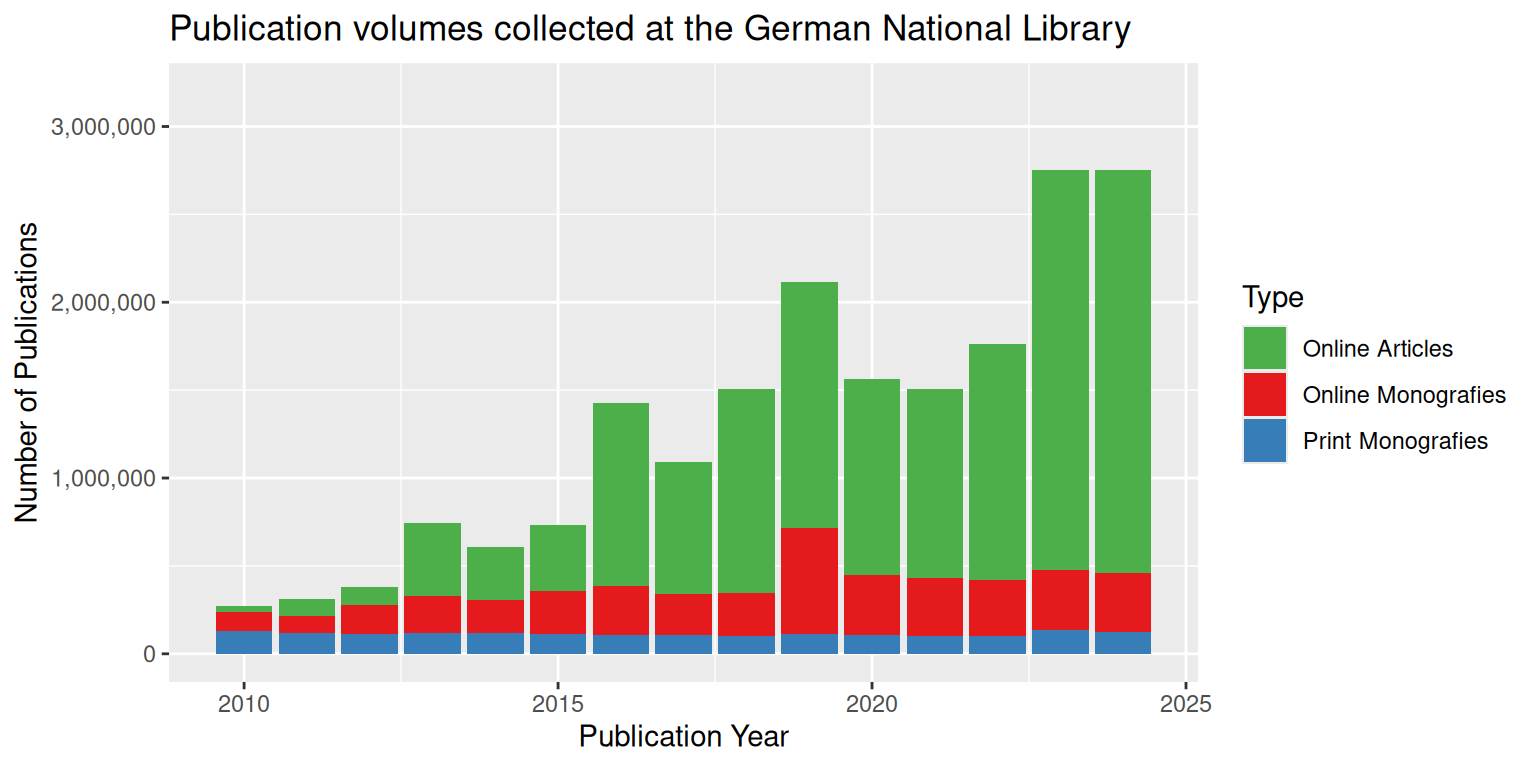
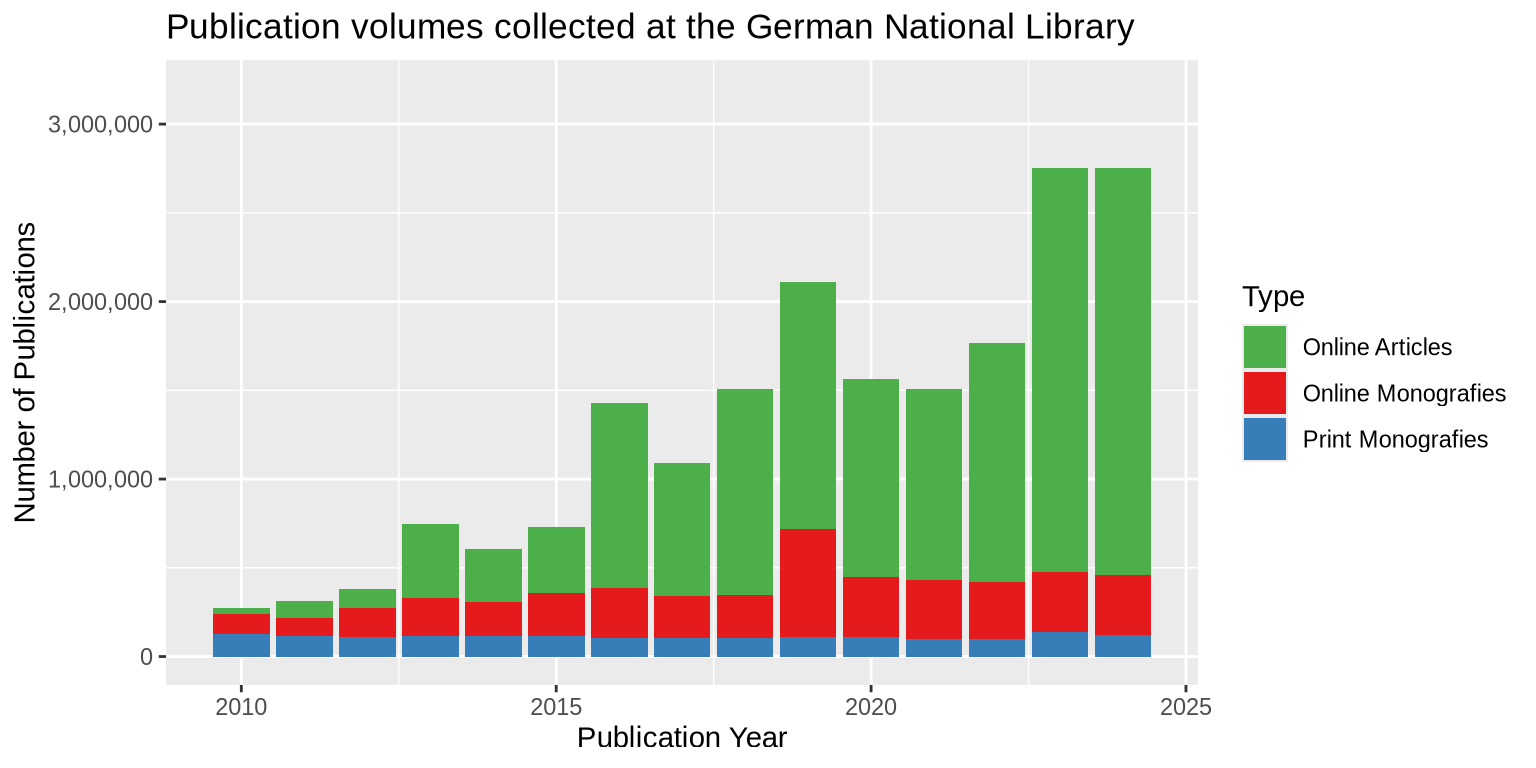
fix typo in slides

diff --git a/slides/slides.html b/slides/slides.html
@@ -6,8 +6,8 @@
 <script src="slides_files/libs/quarto-html/tippy.umd.min.js"></script>
 <link href="slides_files/libs/quarto-html/tippy.css" rel="stylesheet">
 <link href="slides_files/libs/quarto-html/light-border.css" rel="stylesheet">
-<link href="slides_files/libs/quarto-html/quarto-syntax-highlighting-37eea08aefeeee20ff55810ff984fec1.css" rel="stylesheet" id="quarto-text-highlighting-styles"><meta charset="utf-8">
-  <meta name="generator" content="quarto-1.7.32">
+<link href="slides_files/libs/quarto-html/quarto-syntax-highlighting-587c61ba64f3a5504c4d52d930310e48.css" rel="stylesheet" id="quarto-text-highlighting-styles"><meta charset="utf-8">
+  <meta name="generator" content="quarto-1.8.26">
 
   <meta name="author" content="Maximilian Kähler">
   <meta name="dcterms.date" content="2025-12-03">
@@ -96,7 +96,7 @@
     code span.vs { color: #20794d; } /* VerbatimString */
     code span.wa { color: #5e5e5e; font-style: italic; } /* Warning */
   </style>
-  <link rel="stylesheet" href="slides_files/libs/revealjs/dist/theme/quarto-b331e54636063e9138b24fec8fd3a628.css">
+  <link rel="stylesheet" href="slides_files/libs/revealjs/dist/theme/quarto-847fd1119461911a4f9ae32216069dbc.css">
   <script>window.backupDefine = window.define; window.define = undefined;</script><script src="https://cdn.jsdelivr.net/npm/katex@latest/dist/katex.min.js"></script>
   <script>document.addEventListener("DOMContentLoaded", function () {
  var mathElements = document.getElementsByClassName("math");
@@ -254,7 +254,7 @@ Maximilian Kähler
 <div style="background: white; color: black; padding: 24px; border-radius: 12px; box-shadow: 0 2px 8px rgba(0,0,0,0.08); min-width: 391px; max-width: 460px; height: 410px;">
 <p><strong>About this Workshop:</strong></p>
 <ul>
-<li>Explore evaluation techniques for evaluating automated subject indexing methods, focusing on practical applications using the <strong>CASIMiR</strong><sup>1</sup> package.</li>
+<li>Explore evaluation techniques for evaluating automated subject indexing methods, focussing on practical applications using the <strong>CASIMiR</strong><sup>1</sup> package.</li>
 <li>Created as part of DNB-AI-Project, funded by the German Federal Commissioner for Culture and Media (BKM) <sup>2</sup></li>
 <li>All workshop materials are available online<sup>3</sup></li>
 </ul>
@@ -1012,10 +1012,10 @@ Embracing Euphonium
 }
 </style>
 
-<table class="gt_table caption-top" data-quarto-postprocess="true" data-quarto-disable-processing="false" data-quarto-bootstrap="false">
+<table class="gt_table caption-top" data-quarto-bootstrap="false">
 <thead>
 <tr class="gt_heading header">
-<th colspan="8" class="gt_heading gt_title gt_font_normal gt_bottom_border">Qualitative Method Comparison</th>
+<td colspan="8" class="gt_heading gt_title gt_font_normal gt_bottom_border">Qualitative Method Comparison</td>
 </tr>
 <tr class="gt_col_headings even">
 <th id="label_id" class="gt_col_heading gt_columns_bottom_border gt_left" data-quarto-table-cell-role="th" scope="col">label_id</th>
@@ -1030,8 +1030,8 @@ Embracing Euphonium
 </thead>
 <tbody class="gt_table_body">
 <tr class="gt_group_heading_row odd">
-<td colspan="8" id="1166742806 - Inclusive School and Curriculum Development: From Aspiration to Successful
-Implementation" class="gt_group_heading" data-quarto-table-cell-role="th" scope="colgroup">1166742806 - Inclusive School and Curriculum Development: From Aspiration to Successful Implementation</td>
+<th colspan="8" id="1166742806 - Inclusive School and Curriculum Development: From Aspiration to Successful
+Implementation" class="gt_group_heading" data-quarto-table-cell-role="th" scope="colgroup">1166742806 - Inclusive School and Curriculum Development: From Aspiration to Successful Implementation</th>
 </tr>
 <tr class="gt_row_group_first even">
 <td class="gt_row gt_left" headers="1166742806 - Inclusive School and Curriculum Development: From Aspiration to Successful
@@ -1472,12 +1472,12 @@ FALSE
 <p><strong>Practical:</strong> Go to <code>workbooks/02_set-retrieval-metrics.qmd</code> to compute retrieval metrics for the provided subject indexing methods.</p>
 <p>Example: Compute Precision, Recall, and F1-Score for <code>artful-accordion</code> method</p>
 <div class="cell">
-<div class="sourceCode cell-code" id="cb3"><pre class="sourceCode numberSource r number-lines code-with-copy"><code class="sourceCode r"><span id="cb3-1"><a href=""></a><span class="fu">compute_set_retrieval_scores</span>(</span>
+<div class="code-copy-outer-scaffold"><div class="sourceCode cell-code" id="cb3"><pre class="sourceCode numberSource r number-lines code-with-copy"><code class="sourceCode r"><span id="cb3-1"><a href=""></a><span class="fu">compute_set_retrieval_scores</span>(</span>
 <span id="cb3-2"><a href=""></a>  <span class="at">predicted =</span> predictions[[<span class="st">"artful-accordion"</span>]],</span>
 <span id="cb3-3"><a href=""></a>  <span class="at">gold_standard =</span> gold_standard,</span>
 <span id="cb3-4"><a href=""></a>  <span class="at">k =</span> <span class="dv">5</span>, <span class="co"># limit to top-5 suggestions</span></span>
 <span id="cb3-5"><a href=""></a>  <span class="at">rename_metrics =</span> <span class="cn">TRUE</span></span>
-<span id="cb3-6"><a href=""></a>)</span></code><button title="Copy to Clipboard" class="code-copy-button"><i class="bi"></i></button></pre></div>
+<span id="cb3-6"><a href=""></a>)</span></code></pre></div><button title="Copy to Clipboard" class="code-copy-button"><i class="bi"></i></button></div>
 <div class="cell-output cell-output-stdout">
 <pre><code># A tibble: 4 × 4
   metric  mode    value support
@@ -1511,14 +1511,14 @@ FALSE
 <h2>Practical III: Example</h2>
 <p>Given the mapping table <code>subject_groups</code> that assigns each document to a subject group, we can compute stratified retrieval scores:</p>
 <div class="cell">
-<div class="sourceCode cell-code" id="cb5"><pre class="sourceCode numberSource r number-lines code-with-copy"><code class="sourceCode r"><span id="cb5-1"><a href=""></a>res_at_5_by_sg_artful_accordion <span class="ot">&lt;-</span> <span class="fu">compute_set_retrieval_scores</span>(</span>
+<div class="code-copy-outer-scaffold"><div class="sourceCode cell-code" id="cb5"><pre class="sourceCode numberSource r number-lines code-with-copy"><code class="sourceCode r"><span id="cb5-1"><a href=""></a>res_at_5_by_sg_artful_accordion <span class="ot">&lt;-</span> <span class="fu">compute_set_retrieval_scores</span>(</span>
 <span id="cb5-2"><a href=""></a>  <span class="at">predicted =</span> predictions[[<span class="st">"artful-accordion"</span>]],</span>
 <span id="cb5-3"><a href=""></a>  <span class="at">gold_standard =</span> gold_standard,</span>
 <span id="cb5-4"><a href=""></a>  <span class="at">doc_groups =</span> subject_groups,</span>
 <span id="cb5-5"><a href=""></a>  <span class="at">k =</span> <span class="dv">5</span></span>
 <span id="cb5-6"><a href=""></a>)</span>
 <span id="cb5-7"><a href=""></a></span>
-<span id="cb5-8"><a href=""></a><span class="fu">kable</span>(<span class="fu">head</span>(res_at_5_by_sg_artful_accordion, <span class="dv">3</span>))</span></code><button title="Copy to Clipboard" class="code-copy-button"><i class="bi"></i></button></pre></div>
+<span id="cb5-8"><a href=""></a><span class="fu">kable</span>(<span class="fu">head</span>(res_at_5_by_sg_artful_accordion, <span class="dv">3</span>))</span></code></pre></div><button title="Copy to Clipboard" class="code-copy-button"><i class="bi"></i></button></div>
 <div class="cell-output-display">
 <table class="caption-top">
 <colgroup>
@@ -1606,7 +1606,7 @@ FALSE
 <p><strong>Practical:</strong> Go to <code>workbooks/04_precision-recall-curves.qmd</code> to compute precision-recall curves for the provided subject indexing methods.</p>
 <p>Example: Compute Precision-Recall Curve with CASIMiR</p>
 <div class="cell">
-<div class="sourceCode cell-code" id="cb6"><pre class="sourceCode numberSource r number-lines code-with-copy"><code class="sourceCode r"><span id="cb6-1"><a href=""></a>pr_curve <span class="ot">&lt;-</span> <span class="fu">compute_pr_curve</span>(</span>
+<div class="code-copy-outer-scaffold"><div class="sourceCode cell-code" id="cb6"><pre class="sourceCode numberSource r number-lines code-with-copy"><code class="sourceCode r"><span id="cb6-1"><a href=""></a>pr_curve <span class="ot">&lt;-</span> <span class="fu">compute_pr_curve</span>(</span>
 <span id="cb6-2"><a href=""></a>  <span class="at">predicted =</span> predictions[[<span class="st">"artful-accordion"</span>]],</span>
 <span id="cb6-3"><a href=""></a>  <span class="at">gold_standard =</span> gold_standard,</span>
 <span id="cb6-4"><a href=""></a>  <span class="at">steps =</span> <span class="dv">10</span> <span class="co"># number of thresholds to evaluate</span></span>
@@ -1616,7 +1616,7 @@ FALSE
 <span id="cb6-8"><a href=""></a>  <span class="fu">geom_point</span>() <span class="sc">+</span></span>
 <span id="cb6-9"><a href=""></a>  <span class="fu">geom_path</span>() <span class="sc">+</span></span>
 <span id="cb6-10"><a href=""></a>  <span class="fu">coord_fixed</span>(<span class="at">xlim =</span> <span class="fu">c</span>(<span class="dv">0</span>, <span class="dv">1</span>), <span class="at">ylim =</span> <span class="fu">c</span>(<span class="dv">0</span>, <span class="dv">1</span>)) <span class="sc">+</span> </span>
-<span id="cb6-11"><a href=""></a>  <span class="fu">ggtitle</span>(<span class="st">"Precision-Recall Curve for artful-accordion, computed with CASIMiR"</span>)</span></code><button title="Copy to Clipboard" class="code-copy-button"><i class="bi"></i></button></pre></div>
+<span id="cb6-11"><a href=""></a>  <span class="fu">ggtitle</span>(<span class="st">"Precision-Recall Curve for artful-accordion, computed with CASIMiR"</span>)</span></code></pre></div><button title="Copy to Clipboard" class="code-copy-button"><i class="bi"></i></button></div>
 </div>
 </section>
 <section id="analysing-the-long-tail" class="slide level2">
@@ -2296,13 +2296,14 @@ FALSE
           e.clearSelection();
         }
         const getTextToCopy = function(trigger) {
-            const codeEl = trigger.previousElementSibling.cloneNode(true);
-            for (const childEl of codeEl.children) {
-              if (isCodeAnnotation(childEl)) {
-                childEl.remove();
-              }
+          const outerScaffold = trigger.parentElement.cloneNode(true);
+          const codeEl = outerScaffold.querySelector('code');
+          for (const childEl of codeEl.children) {
+            if (isCodeAnnotation(childEl)) {
+              childEl.remove();
             }
-            return codeEl.innerText;
+          }
+          return codeEl.innerText;
         }
         const clipboard = new window.ClipboardJS('.code-copy-button:not([data-in-quarto-modal])', {
           text: getTextToCopy
